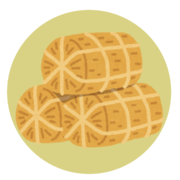
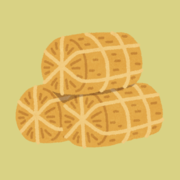
モバイル版のよる画面下部の丸み対策の為、footer要素をpadding-bottom: 30px→15pxへ変更,apple-touch-iconの変更

diff --git a/public/assets/footer.css b/public/assets/footer.css
@@ -2,7 +2,7 @@
     /* for iPhone Landscape (iPhone 縦) */
 
     footer {
-        padding-bottom: 30px;
+        padding-bottom: 15px;
         background-color: #ffffff;
     }
 
